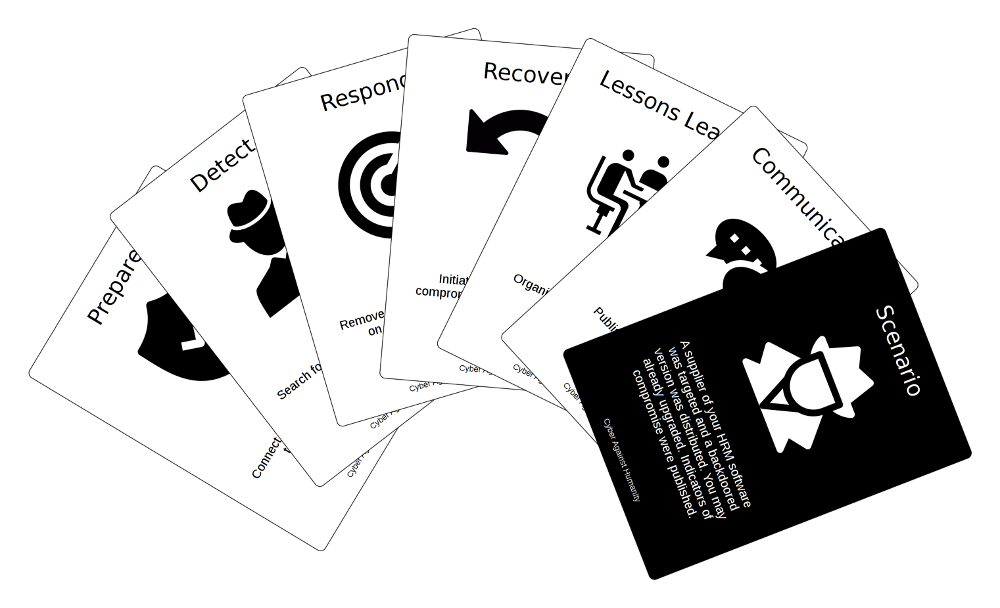
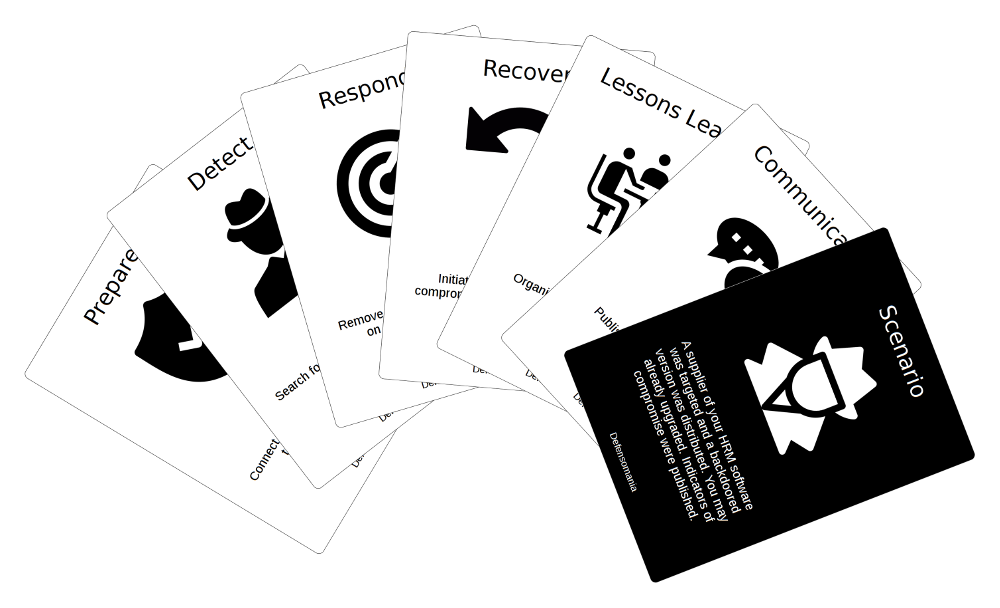
Update showcase and hand

diff --git a/src/deck.rb b/src/deck.rb
@@ -88,8 +88,9 @@ Squib::Deck.new cards: all_cards['Phase'].size, layout: layouts do
   }, layout: 'illustration'
 
   build :showcase do
-    showcase file: 'showcase.png', dir: '../img/', range: position_each_category
-    hand file: 'hand.png', dir: '../img/', range: position_each_category, trim: 30, trim_radius: 10, angle_range: -1.4..1.2
+    rect layout: 'cut', stroke_color: text_color, radius: 16
+    showcase file: 'showcase.png', dir: '../img/', range: position_each_category, trim: 37.5, trim_radius: 16
+    hand file: 'hand.png', dir: '../img/', range: position_each_category, trim: 37.5, trim_radius: 16, angle_range: -1.4..1.2
   end
 
   # with bleed
